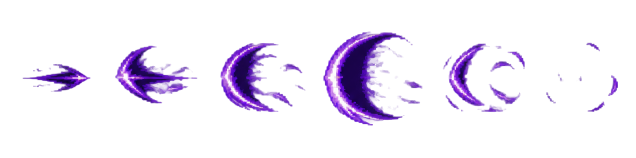
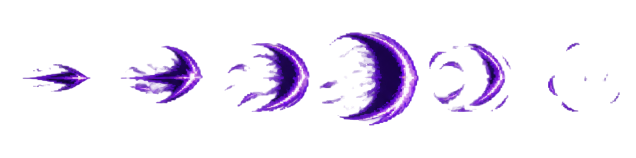
OK polish: basic attack no longer splits the body (the ATK2 sheet drew its crescent apart from the body and two bodies in the back row -> not used; the combo finisher uses ATK1 + the crescent VFX), ok_crescent mirrored so it bulges toward the target

diff --git a/src/skills/oathbreaker.js b/src/skills/oathbreaker.js
@@ -20,7 +20,7 @@ export const OK_ANIMS = {
   run: { sheet: 'walk', cols: [0, 1, 2, 3, 4, 5], fps: 13, loop: true, bob: 2 },
   atk1: { sheet: 'atk1', cols: [2, 3] },                                     // overhead cut
   atk2: { sheet: 'atk1', cols: [4, 4] },                                     // lunging thrust
-  atk3: { sheet: 'atk2', cols: [1, 2, 2], side: { cols: [1, 2, 3, 3] } },    // violet crescent (only drawn from the side)
+  atk3: { sheet: 'atk1', cols: [2, 3, 3, 4] },                                // heavy cut + the violet crescent VFX
   dodge: { sheet: 'dash', cols: [2, 3, 4] },
   guard: { sheet: 'guard', cols: [3] },                                      // blade raised across the body
   counter: { sheet: 'parry', cols: [2, 3, 3] },                              // perfect-guard riposte

diff --git a/tools/build-vfx.js b/tools/build-vfx.js
@@ -58,6 +58,7 @@ const SETS = {
     names: { SK1: 'ok_brand', SK2: 'ok_defy', SK3: 'ok_flare', SK4: 'ok_spikes', SK5: 'ok_sigil', SK6: 'ok_crescent', SK7: 'ok_verdict' },
     rows: { SK1: 0, SK2: 0, SK4: 0, SK5: 0, SK7: 0 }, // SK3 / SK6 side view (row 3)
     checker: { SK2: true, SK7: true },
+    mirrorFrames: { SK6: [1, 2, 3, 4, 5] }, // the crescent was drawn bulging back at the swinger
   },
   // Bulwark Sentinel (gold fortress + blue steel light). SK3 has an opaque fake-checker background -> not used.
   // SK1 / SK4 carry direction labels in the first column (stripped); SK4 has 8 rows (2 sets), row 0 = front view.

diff --git a/tools/build-player.js b/tools/build-player.js
@@ -154,7 +154,7 @@ PRESETS.ok = { out: 'assets/player/ok', nearestBody: true, edgeFade: 8, splitFea
   walk: [OK + 'WLAK1.PNG', 4],
   idle: [OK + 'WLAK2', 4],
   atk1: [OK + 'ATK1', 4],
-  atk2: [OK + 'ATK2', 4, { frames: 5 }], // 5 poses per row (the big crescent)
+  // ATK2 is not used: its crescent is drawn apart from the body and the back row holds two bodies (split figure)
   dash: [OK + 'DASH', 4],
   guard: [OK + 'DEF', 4],
   parry: [OK + 'PARRY', 4],
